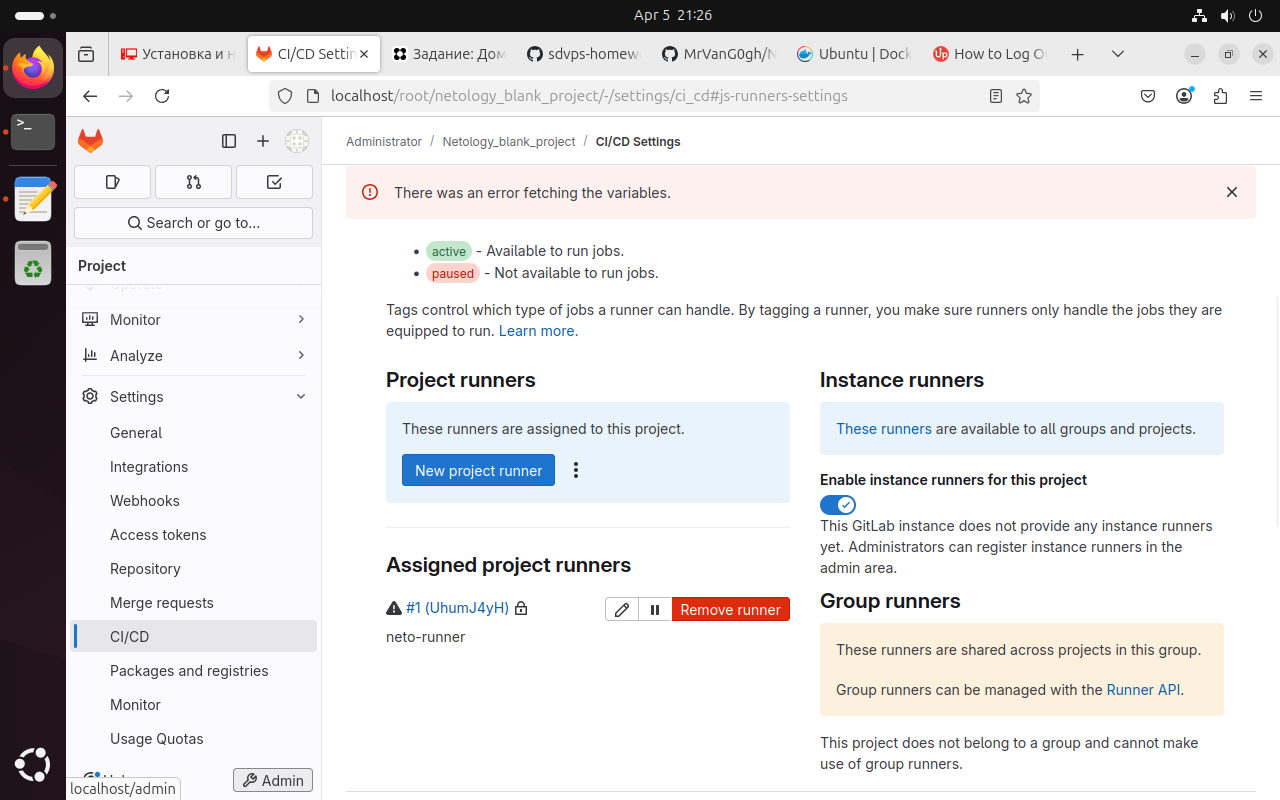
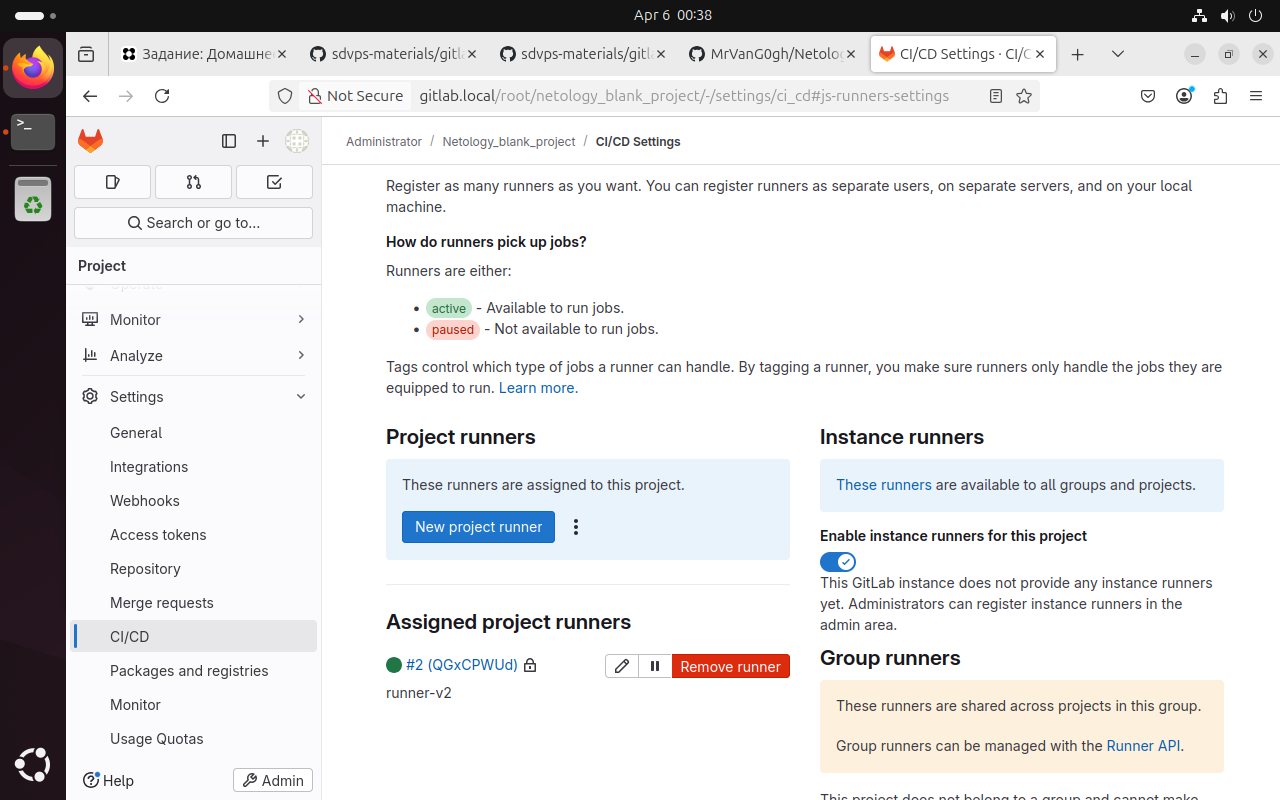
Ex2 added, Ex modified

diff --git a/README.md b/README.md
@@ -13,8 +13,6 @@
 
 ![Screen_1_1](https://github.com/MrVanG0gh/Netology-8.3-GitLab-hw/blob/main/images/Screenshot_ex1_1.png)
 ![Screen_1_2](https://github.com/MrVanG0gh/Netology-8.3-GitLab-hw/blob/main/images/Screenshot_ex1_2.png)
-![Screen_1_3](https://github.com/MrVanG0gh/Netology-8.3-GitLab-hw/blob/main/images/Screenshot_ex1_3.png)
-![Screen_1_4](https://github.com/MrVanG0gh/Netology-8.3-GitLab-hw/blob/main/images/Screenshot_ex1_4.png)
 
 Настройки раннера из файла config.toml:
 ```
@@ -26,11 +24,11 @@ shutdown_timeout = 0
   session_timeout = 1800
 
 [[runners]]
-  name = "neto-runner"
-  url = "http://localhost/"
-  id = 1
-  token = "t3_UhumJ4yHmgozkzsf-eWS"
-  token_obtained_at = 2025-04-05T21:09:52Z
+  name = "runner-v2"
+  url = "http://gitlab.local/"
+  id = 2
+  token = "t3_QGxCPWUdFpyQzxkoknPC"
+  token_obtained_at = 2025-04-05T23:16:32Z
   token_expires_at = 0001-01-01T00:00:00Z
   executor = "docker"
   [runners.cache]
@@ -40,14 +38,16 @@ shutdown_timeout = 0
     [runners.cache.azure]
   [runners.docker]
     tls_verify = false
-    image = "golang 1.17"
+    image = "ruby:2.7"
     privileged = false
     disable_entrypoint_overwrite = false
     oom_kill_disable = false
     disable_cache = false
-    volumes = ["/cache"]
+    volumes = ["/cache", "/var/run/docker.sock:/var/run/docker.sock"]
     shm_size = 0
     network_mtu = 0
+    extra_hosts = ["gitlab.local:10.0.2.15"]
+
 ```
 
 ---
@@ -66,17 +66,28 @@ shutdown_timeout = 0
     файл gitlab-ci.yml для своего проекта или вставьте код в соответствующее поле в шаблоне;
     скриншоты с успешно собранными сборками.
 
+файл gitlab-ci.yml:
+```
+stages:
+  - test
+  - build
+
+test:
+  stage: test
+  image: golang:1.17
+  script:
+    - go test .
+
+build:
+  stage: build
+  image: docker:latest
+  script:
+    - docker build .
 
 ```
-Поле для вставки кода...
-....
-....
-....
-....
-```
 
-`При необходимости прикрепитe сюда скриншоты
-![Название скриншота 2](ссылка на скриншот 2)`
+![Screen_2_1](https://github.com/MrVanG0gh/Netology-8.3-GitLab-hw/blob/main/images/Screenshot_ex2_1.png)
+![Screen_2_2](https://github.com/MrVanG0gh/Netology-8.3-GitLab-hw/blob/main/images/Screenshot_ex2_2.png)
 
 
 ---
